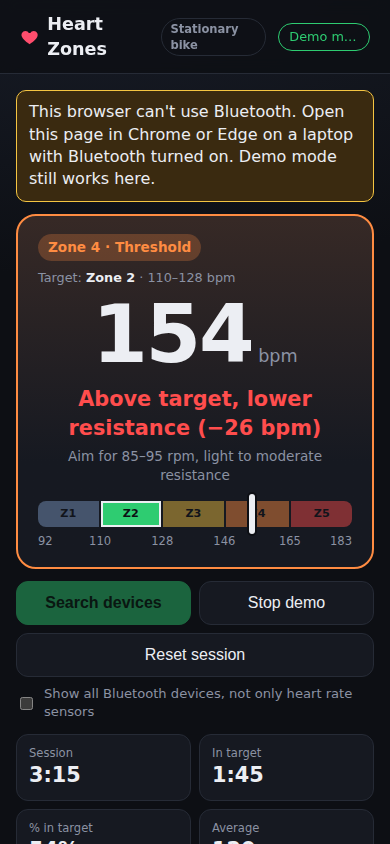
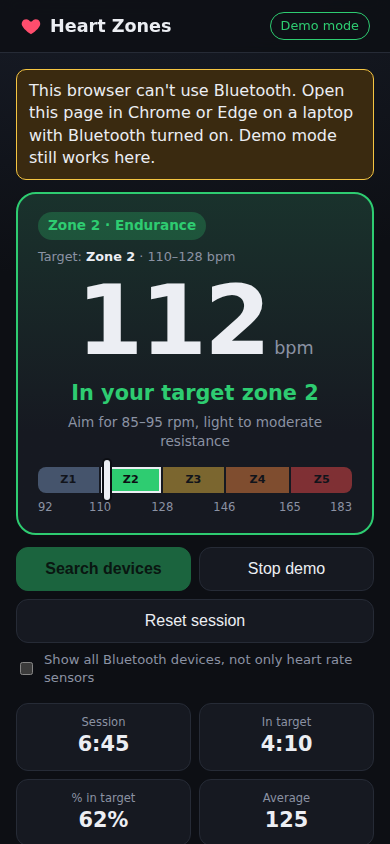
Center the live heart rate and chart the whole session
The live card is now centered at the top with a larger readout. The
graph covers the entire session with a time axis, bpm zone boundaries,
an average line and the current point; a peak HR tile is added.

Claude-Session: https://claude.ai/code/session_0187SWruRD2xgbcxPxCruPNH

diff --git a/src/main.ts b/src/main.ts
@@ -2,7 +2,7 @@
 const HR_SERVICE = 0x180d;
 const HR_MEASUREMENT = 0x2a37;
 const TICK_MS = 5000;
-const HISTORY_POINTS = 360; // 30 minutes at 5s per point
+const HISTORY_POINTS = 8640; // whole session, up to 12 hours at 5s per point
 const SETTINGS_KEY = "hrZonesSettings.v2";
 // Cycling max HR typically runs ~5 bpm below running max (seated, less muscle mass loaded).
 const BIKE_MAX_OFFSET = 5;
@@ -107,6 +107,8 @@ const els = {
   zoneTime: $("zoneTime"),
   zonePct: $("zonePct"),
   avgBpm: $("avgBpm"),
+  maxBpm: $("maxBpm"),
+  chartInfo: $("chartInfo"),
   kcal: $("kcal"),
   zoneTimes: $("zoneTimes"),
   chart: $<HTMLCanvasElement>("chart"),
@@ -244,6 +246,7 @@ let sessionSec = 0;
 let zoneSecs = [0, 0, 0, 0, 0, 0]; // index 0 = below zone 1
 let bpmSum = 0;
 let bpmCount = 0;
+let peakBpm = 0;
 let kcalTotal = 0;
 let lastReadingAt = 0;
 
@@ -254,6 +257,7 @@ function resetSession() {
   zoneSecs = [0, 0, 0, 0, 0, 0];
   bpmSum = 0;
   bpmCount = 0;
+  peakBpm = 0;
   kcalTotal = 0;
   renderStats();
   drawChart();
@@ -285,6 +289,7 @@ function tick() {
   zoneSecs[zoneNumber(value)] += TICK_MS / 1000;
   bpmSum += value;
   bpmCount += 1;
+  peakBpm = Math.max(peakBpm, value);
   kcalTotal += kcalPerMinute(value) * (TICK_MS / 60000);
   hrHistory.push(value);
   if (hrHistory.length > HISTORY_POINTS) hrHistory.shift();
@@ -447,6 +452,7 @@ function renderStats() {
   els.zoneTime.textContent = fmtTime(inTarget);
   els.zonePct.textContent = sessionSec ? `${Math.round((inTarget / sessionSec) * 100)}%` : "0%";
   els.avgBpm.textContent = bpmCount ? String(Math.round(bpmSum / bpmCount)) : "--";
+  els.maxBpm.textContent = peakBpm ? String(peakBpm) : "--";
   els.kcal.textContent = String(Math.round(kcalTotal));
 
   els.zoneTimes.replaceChildren(
@@ -461,6 +467,12 @@ function renderStats() {
   );
 }
 
+// Picks a "nice" tick spacing (in seconds) for the time axis.
+function timeStep(totalSec: number) {
+  const steps = [60, 120, 300, 600, 900, 1800, 3600, 7200];
+  return steps.find((st) => totalSec / st <= 6) ?? 7200;
+}
+
 function drawChart() {
   const canvas = els.chart;
   const dpr = window.devicePixelRatio || 1;
@@ -472,41 +484,91 @@ function drawChart() {
   ctx.scale(dpr, dpr);
   ctx.clearRect(0, 0, w, h);
 
+  const padL = 34;
+  const padB = 20;
+  const pw = w - padL - 4;
+  const ph = h - padB - 4;
+
   const ranges = zoneRanges();
   const yMin = Math.min(ranges[0].low, ...hrHistory) - 5;
   const yMax = Math.max(ranges[4].high, ...hrHistory) + 5;
-  const y = (v: number) => h - ((v - yMin) / (yMax - yMin)) * h;
+  const y = (v: number) => 4 + ph - ((v - yMin) / (yMax - yMin)) * ph;
 
-  // zone bands
+  // Show at least 10 minutes so the line doesn't start stretched across the whole width.
+  const stepSec = TICK_MS / 1000;
+  const totalSec = Math.max(600, (hrHistory.length - 1) * stepSec);
+  const x = (i: number) => padL + ((i * stepSec) / totalSec) * pw;
+
+  // zone bands with bpm boundaries
+  ctx.font = "11px system-ui";
   for (const z of ranges) {
     ctx.fillStyle = cssVar(z.color);
     ctx.globalAlpha = z.n === settings.target ? 0.22 : 0.08;
-    ctx.fillRect(0, y(z.high), w, y(z.low) - y(z.high));
+    ctx.fillRect(padL, y(z.high), pw, y(z.low) - y(z.high));
+    ctx.globalAlpha = 1;
+    ctx.fillStyle = cssVar("--muted");
+    ctx.textAlign = "right";
+    ctx.fillText(String(z.low), padL - 6, y(z.low) + 4);
   }
-  ctx.globalAlpha = 1;
-  ctx.fillStyle = cssVar("--muted");
-  ctx.font = "11px system-ui";
-  for (const z of ranges) ctx.fillText(`Z${z.n}`, 4, (y(z.low) + y(z.high)) / 2 + 4);
+  ctx.fillText(String(ranges[4].high), padL - 6, y(ranges[4].high) + 4);
+
+  // time axis
+  ctx.textAlign = "center";
+  const tStep = timeStep(totalSec);
+  ctx.strokeStyle = cssVar("--border");
+  ctx.lineWidth = 1;
+  for (let t = 0; t <= totalSec; t += tStep) {
+    const tx = padL + (t / totalSec) * pw;
+    ctx.beginPath();
+    ctx.moveTo(tx, 4);
+    ctx.lineTo(tx, 4 + ph);
+    ctx.stroke();
+    ctx.fillText(fmtTime(t), Math.min(tx, w - 18), h - 5);
+  }
+
+  els.chartInfo.textContent = hrHistory.length
+    ? `${fmtTime(sessionSec)} · avg ${Math.round(bpmSum / bpmCount)} · peak ${peakBpm} bpm`
+    : "";
 
   if (hrHistory.length < 2) {
-    ctx.textAlign = "center";
-    ctx.fillText("Your heart rate line appears here", w / 2, h / 2);
+    ctx.fillStyle = cssVar("--muted");
+    ctx.fillText("Your heart rate for the whole session appears here", padL + pw / 2, 4 + ph / 2);
     ctx.textAlign = "start";
     return;
   }
+  ctx.textAlign = "start";
 
-  const step = w / (HISTORY_POINTS - 1);
-  const x0 = w - (hrHistory.length - 1) * step;
+  // average line
+  const avg = bpmSum / bpmCount;
+  ctx.setLineDash([4, 4]);
+  ctx.strokeStyle = cssVar("--text");
+  ctx.globalAlpha = 0.5;
+  ctx.beginPath();
+  ctx.moveTo(padL, y(avg));
+  ctx.lineTo(padL + pw, y(avg));
+  ctx.stroke();
+  ctx.setLineDash([]);
+  ctx.globalAlpha = 1;
+
+  // heart rate line, colored by zone
   ctx.lineWidth = 2.5;
   ctx.lineJoin = "round";
+  ctx.lineCap = "round";
   for (let i = 1; i < hrHistory.length; i++) {
     const zn = zoneNumber(hrHistory[i]);
     ctx.strokeStyle = zn ? cssVar(ZONES[zn - 1].color) : cssVar("--muted");
     ctx.beginPath();
-    ctx.moveTo(x0 + (i - 1) * step, y(hrHistory[i - 1]));
-    ctx.lineTo(x0 + i * step, y(hrHistory[i]));
+    ctx.moveTo(x(i - 1), y(hrHistory[i - 1]));
+    ctx.lineTo(x(i), y(hrHistory[i]));
     ctx.stroke();
   }
+
+  // current point
+  const last = hrHistory.length - 1;
+  ctx.fillStyle = cssVar("--text");
+  ctx.beginPath();
+  ctx.arc(x(last), y(hrHistory[last]), 4, 0, Math.PI * 2);
+  ctx.fill();
 }
 
 // ---------- audio cue ----------

diff --git a/index.html b/index.html
@@ -23,59 +23,66 @@
         Demo mode still works here.
       </p>
 
+      <section class="hero">
+        <section id="card" class="card live idle">
+          <div class="live-top">
+            <span id="zoneBadge" class="badge">--</span>
+            <span class="target-pill">Target: <b id="targetName">Zone 2</b> · <span id="targetRange">--</span></span>
+          </div>
+          <div class="bpm"><span id="bpm">--</span><small>bpm</small></div>
+          <div id="zoneLabel" class="zone-label">Connect your heart rate strap to start</div>
+          <div id="targetCadence" class="cadence"></div>
+
+          <div class="zbar" id="zbar"></div>
+          <div class="zbar-legend" id="zbarLegend"></div>
+        </section>
+
+        <div class="actions">
+          <button id="connectBtn" class="primary">Search devices</button>
+          <button id="demoBtn">Demo mode</button>
+          <button id="resetBtn">Reset session</button>
+        </div>
+        <label class="show-all"><input id="showAll" type="checkbox" /> Show all Bluetooth devices, not only heart rate sensors</label>
+
+        <section id="knownWrap" class="panel known" hidden>
+          <h2>Your devices</h2>
+          <ul id="knownList"></ul>
+        </section>
+      </section>
+
+      <section class="stats">
+        <div><label>Session</label><b id="sessionTime">0:00</b></div>
+        <div><label>In target</label><b id="zoneTime">0:00</b></div>
+        <div><label>% in target</label><b id="zonePct">0%</b></div>
+        <div><label>Average</label><b id="avgBpm">--</b></div>
+        <div><label>Peak</label><b id="maxBpm">--</b></div>
+        <div><label>Calories (est.)</label><b id="kcal">0</b></div>
+      </section>
+
+      <section class="panel chart-wrap">
+        <div class="chart-head">
+          <h2>Whole session</h2>
+          <span id="chartInfo" class="muted small"></span>
+        </div>
+        <canvas id="chart"></canvas>
+      </section>
+
       <div class="layout">
         <div class="col">
-          <section id="card" class="card live idle">
-            <div class="live-top">
-              <span id="zoneBadge" class="badge">--</span>
-              <span class="target-pill">Target: <b id="targetName">Zone 2</b> · <span id="targetRange">--</span></span>
-            </div>
-            <div class="bpm"><span id="bpm">--</span><small>bpm</small></div>
-            <div id="zoneLabel" class="zone-label">Connect your heart rate strap to start</div>
-            <div id="targetCadence" class="cadence"></div>
-
-            <div class="zbar" id="zbar"></div>
-            <div class="zbar-legend" id="zbarLegend"></div>
-          </section>
-
-          <div class="actions">
-            <button id="connectBtn" class="primary">Search devices</button>
-            <button id="demoBtn">Demo mode</button>
-            <button id="resetBtn">Reset session</button>
-          </div>
-          <label class="show-all"><input id="showAll" type="checkbox" /> Show all Bluetooth devices, not only heart rate sensors</label>
-
-          <section id="knownWrap" class="panel known" hidden>
-            <h2>Your devices</h2>
-            <ul id="knownList"></ul>
-          </section>
-
-          <section class="stats">
-            <div><label>Session</label><b id="sessionTime">0:00</b></div>
-            <div><label>In target</label><b id="zoneTime">0:00</b></div>
-            <div><label>% in target</label><b id="zonePct">0%</b></div>
-            <div><label>Average</label><b id="avgBpm">--</b></div>
-            <div><label>Calories (est.)</label><b id="kcal">0</b></div>
-          </section>
-
           <section class="panel">
             <h2>Time in each zone</h2>
             <div id="zoneTimes" class="zone-times"></div>
           </section>
 
-          <section class="panel chart-wrap">
-            <h2>Last 30 minutes</h2>
-            <canvas id="chart"></canvas>
-          </section>
-        </div>
-
-        <div class="col">
           <section class="panel">
             <h2>Your zones</h2>
             <p id="profileLine" class="muted small"></p>
             <div id="zonesTable" class="zones"></div>
           </section>
 
+        </div>
+
+        <div class="col">
           <section class="panel">
             <h2>Recommended week</h2>
             <ul id="weekPlan" class="week"></ul>

diff --git a/src/style.css b/src/style.css
@@ -49,7 +49,7 @@ body {
 
 main { max-width: 1180px; margin: 0 auto; padding: 16px; }
 
-.layout { display: grid; grid-template-columns: minmax(0, 1.25fr) minmax(0, 1fr); gap: 16px; align-items: start; }
+.layout { display: grid; grid-template-columns: minmax(0, 1fr) minmax(0, 1fr); gap: 16px; align-items: start; }
 @media (max-width: 900px) { .layout { grid-template-columns: minmax(0, 1fr); } }
 .col { display: flex; flex-direction: column; gap: 12px; min-width: 0; }
 
@@ -123,11 +123,13 @@ button:disabled { opacity: 0.45; cursor: not-allowed; }
 .known li button { flex: 0 0 auto; padding: 6px 14px; font-size: 0.9rem; }
 
 /* stats */
-.stats { display: grid; grid-template-columns: repeat(5, minmax(0, 1fr)); gap: 8px; }
+.stats { display: grid; grid-template-columns: repeat(6, minmax(0, 1fr)); gap: 8px; }
+.stats div { text-align: center; }
 .stats div { background: var(--panel); border: 1px solid var(--border); border-radius: 12px; padding: 10px 12px; }
 .stats label { display: block; font-size: 0.72rem; color: var(--muted); }
 .stats b { font-size: 1.3rem; font-variant-numeric: tabular-nums; }
-@media (max-width: 640px) { .stats { grid-template-columns: repeat(2, minmax(0, 1fr)); } }
+@media (max-width: 760px) { .stats { grid-template-columns: repeat(3, minmax(0, 1fr)); } }
+@media (max-width: 420px) { .stats { grid-template-columns: repeat(2, minmax(0, 1fr)); } }
 
 .zone-times { display: grid; gap: 6px; }
 .ztime { display: grid; grid-template-columns: 28px 1fr 56px; align-items: center; gap: 8px; font-size: 0.85rem; }
@@ -135,7 +137,15 @@ button:disabled { opacity: 0.45; cursor: not-allowed; }
 .ztime .track div { height: 100%; border-radius: 5px; transition: width 0.4s; }
 .ztime .num { text-align: right; font-variant-numeric: tabular-nums; color: var(--muted); }
 
-canvas { width: 100%; height: 200px; display: block; }
+canvas { width: 100%; height: 280px; display: block; }
+.chart-head { display: flex; justify-content: space-between; align-items: baseline; gap: 8px; flex-wrap: wrap; }
+
+/* centered hero */
+.hero { max-width: 760px; margin: 0 auto 16px; display: flex; flex-direction: column; gap: 12px; }
+.hero .bpm span { font-size: clamp(6rem, 22vw, 12rem); }
+.hero .show-all { justify-content: center; }
+main > .stats { margin-bottom: 16px; }
+main > .chart-wrap { margin-bottom: 16px; }
 
 /* zones table */
 .zones { display: grid; gap: 8px; }
@@ -161,3 +171,5 @@ canvas { width: 100%; height: 200px; display: block; }
 .grid label.check { flex-direction: row; align-items: center; grid-column: 1 / -1; color: var(--text); font-size: 0.9rem; }
 input[type="number"], select { width: 100%; padding: 8px; font-size: 0.95rem; border-radius: 8px; border: 1px solid var(--border); background: var(--bg); color: var(--text); }
 input:disabled { opacity: 0.6; }
+.brand { white-space: nowrap; }
+@media (max-width: 480px) { .brand .mode { display: none; } }

diff --git a/README.md b/README.md
@@ -11,7 +11,7 @@ broadcasting HR) and shows, every 5 seconds, which of the 5 heart rate zones you
 - Five zones: Z1 50–60%, Z2 60–70%, Z3 70–80%, Z4 80–90%, Z5 90–100% of max HR. Max HR comes from the Tanaka formula (208 − 0.7 × age) minus 5 bpm for cycling by default, or 220 − age − 5, or your measured max. Add a resting HR to switch to Karvonen (heart rate reserve) zones.
 - "Your zones" panel shows each zone's bpm range for your profile, how it should feel, the target cadence and resistance, and a recommended indoor bike workout, plus a sample training week. Click a zone to make it the target.
 - Profile defaults: age 29, male, 79 kg (editable, saved in the browser).
-- Tracks session time, time and % in target, time in each zone, average HR, estimated calories (Keytel formula), and a 30-minute chart with zone bands.
+- Tracks session time, time and % in target, time in each zone, average HR, estimated calories (Keytel formula), and a whole-session chart with zone bands, time axis and average line.
 - Keeps the screen awake, auto-reconnects if the sensor drops, optional beep when you leave the target zone.
 - "Demo mode" simulates a sensor so you can try it on a PC without Bluetooth.
 
